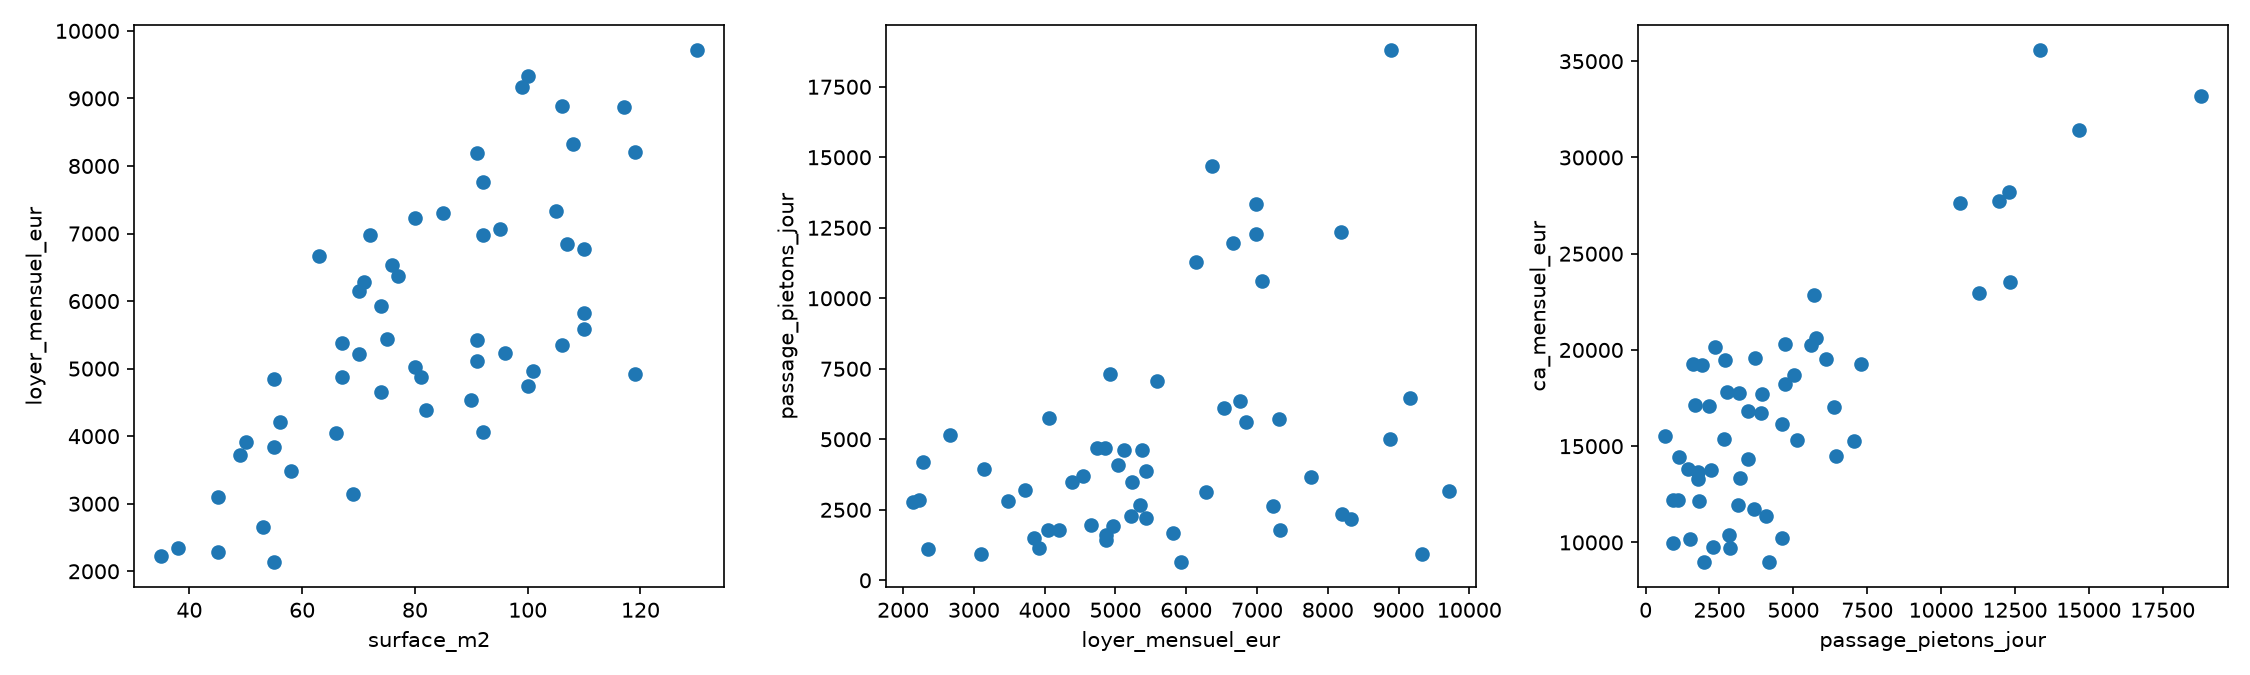
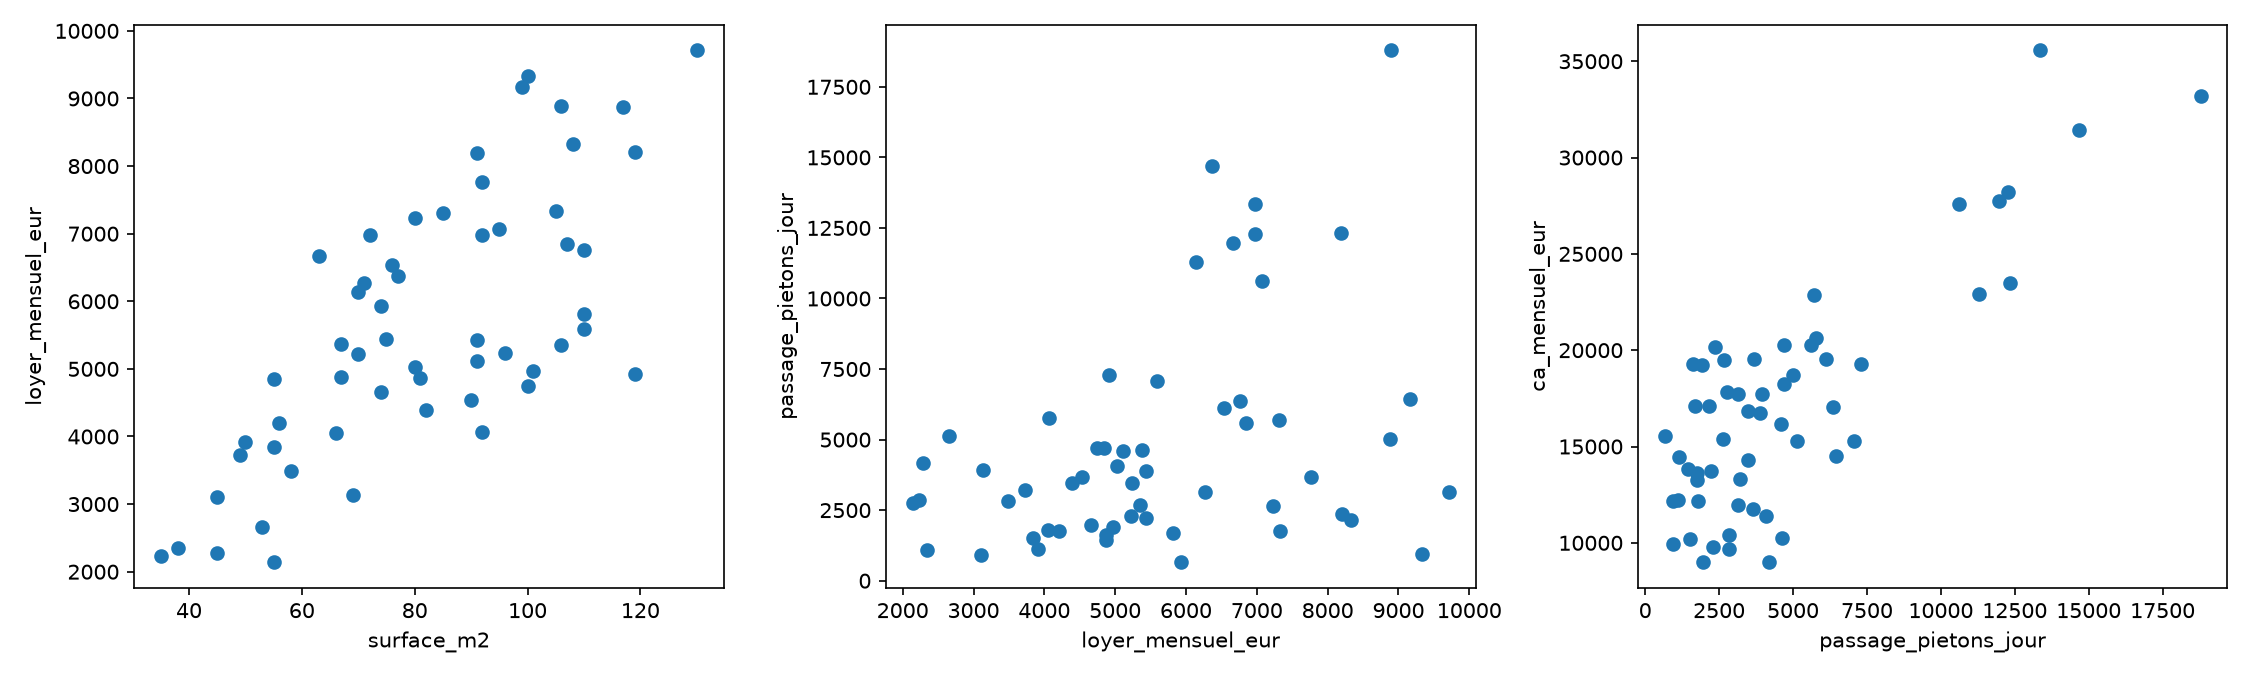
feat: add regression analysis script, indicators, and output figures for Q3-Q4

diff --git a/src/q3_q4_regression.py b/src/q3_q4_regression.py
@@ -1,0 +1,136 @@
+from pathlib import Path
+
+import matplotlib.pyplot as plt
+import numpy as np
+import pandas as pd
+from sklearn.ensemble import RandomForestRegressor
+from sklearn.linear_model import LinearRegression, Ridge
+from sklearn.metrics import (
+    mean_absolute_error,
+    mean_absolute_percentage_error,
+    r2_score,
+    root_mean_squared_error,
+)
+from sklearn.model_selection import KFold, cross_val_predict
+from sklearn.pipeline import Pipeline
+from sklearn.preprocessing import StandardScaler
+
+RACINE = Path(__file__).resolve().parents[1]
+DATA_PATH = RACINE / "data" / "clean" / "boutiques_propres.csv"
+OUTPUT_DIR = RACINE / "outputs"
+FIG_DIR = OUTPUT_DIR / "figures"
+FIG_DIR.mkdir(parents=True, exist_ok=True)
+
+df = pd.read_csv(DATA_PATH)
+
+features = ["surface_m2", "passage_pietons_jour", "concurrents_300m"]
+target = "ca_mensuel_eur"
+
+data = df.dropna(subset=[target] + features).copy()
+X = data[features]
+y = data[target]
+
+print("Boutiques totales :", len(df))
+print("Boutiques utilisables (CA et variables connus) :", len(data))
+
+# Validation croisée 5-fold pour comparer les modèles sans fuite de données
+cv = KFold(n_splits=5, shuffle=True, random_state=42)
+
+modeles = {
+    "Régression linéaire": LinearRegression(),
+    "Ridge (alpha=1.0)": Pipeline([("scaler", StandardScaler()), ("reg", Ridge(alpha=1.0))]),
+    "Random Forest": RandomForestRegressor(n_estimators=100, max_depth=4, random_state=42),
+}
+
+print("\n=== Q4 : COMPARAISON DES MODELES (Validation croisée 5-fold) ===")
+resultats = {}
+for nom, modele in modeles.items():
+    y_pred_cv = cross_val_predict(modele, X, y, cv=cv)
+    r2 = r2_score(y, y_pred_cv)
+    mae = mean_absolute_error(y, y_pred_cv)
+    rmse = root_mean_squared_error(y, y_pred_cv)
+    mape = mean_absolute_percentage_error(y, y_pred_cv) * 100
+    resultats[nom] = {"y_pred_cv": y_pred_cv, "r2": r2, "mae": mae, "rmse": rmse, "mape": mape}
+    print(f"{nom:22s} | R2 = {r2:.3f} | MAE = {mae:,.0f} € | RMSE = {rmse:,.0f} € | MAPE = {mape:.1f} %")
+
+# Modèle retenu : Régression linéaire (meilleur R2/erreur en CV + interprétabilité directe)
+reg = LinearRegression()
+reg.fit(X, y)
+
+# Coefficients standardisés pour comparer l'importance relative des variables
+reg_std = Pipeline([("scaler", StandardScaler()), ("reg", LinearRegression())])
+reg_std.fit(X, y)
+coefs_std = reg_std.named_steps["reg"].coef_
+
+print("\n=== Q4 : EXPLICATION DU MODELE RETENU (Régression linéaire) ===")
+print(f"Ordonnée à l'origine (intercept) : {reg.intercept_:,.2f} €")
+for f, c, cs in zip(features, reg.coef_, coefs_std):
+    print(f"  {f:22s} : {c:+8.2f} € / unité  (coef. standardisé = {cs:+,.0f} €)")
+
+# Prédiction pour le local proposé en Q3
+local_propose = pd.DataFrame([{
+    "surface_m2": 95,
+    "passage_pietons_jour": 4200,
+    "concurrents_300m": 2,
+}])
+ca_estime = reg.predict(local_propose)[0]
+mae_cv = resultats["Régression linéaire"]["mae"]
+rmse_cv = resultats["Régression linéaire"]["rmse"]
+mape_cv = resultats["Régression linéaire"]["mape"]
+r2_cv = resultats["Régression linéaire"]["r2"]
+
+print("\n=== Q3 : ESTIMATION POUR LE LOCAL PROPOSE ===")
+print("Local : 95 m², 4 200 passages/jour, 2 concurrents < 300 m")
+print(f"CA mensuel estimé : {ca_estime:,.0f} €")
+print(f"Fourchette indicative (± MAE) : [{ca_estime - mae_cv:,.0f} € ; {ca_estime + mae_cv:,.0f} €]")
+
+# Graphiques de diagnostic (Q3-Q4)
+y_pred_cv = resultats["Régression linéaire"]["y_pred_cv"]
+residus = y - y_pred_cv
+
+fig, axes = plt.subplots(1, 2, figsize=(13, 5))
+
+# 1. Prédit vs Réel
+axes[0].scatter(y, y_pred_cv, alpha=0.75, edgecolors="k", linewidths=0.5, label="Boutiques (CV 5-fold)")
+lim_min = min(y.min(), y_pred_cv.min()) * 0.9
+lim_max = max(y.max(), y_pred_cv.max()) * 1.05
+axes[0].plot([lim_min, lim_max], [lim_min, lim_max], "r--", label="Prédiction parfaite (y = x)")
+axes[0].axhline(ca_estime, color="green", linestyle=":", linewidth=1.5, label=f"Local Q3 estimé ({ca_estime:,.0f} €)")
+axes[0].set_xlabel("CA mensuel réel (€)")
+axes[0].set_ylabel("CA mensuel prédit (€)")
+axes[0].set_title(f"Q3-Q4 : Réel vs Prédit (R² CV = {r2_cv:.2f}, MAPE = {mape_cv:.1f}%)")
+axes[0].legend()
+axes[0].grid(alpha=0.3)
+
+# 2. Résidus vs Prédit
+axes[1].scatter(y_pred_cv, residus, alpha=0.75, edgecolors="k", linewidths=0.5)
+axes[1].axhline(0, color="red", linestyle="--")
+axes[1].axhline(mae_cv, color="orange", linestyle=":", label=f"± MAE ({mae_cv:,.0f} €)")
+axes[1].axhline(-mae_cv, color="orange", linestyle=":")
+axes[1].set_xlabel("CA mensuel prédit (€)")
+axes[1].set_ylabel("Résidu = Réel - Prédit (€)")
+axes[1].set_title("Diagnostic des résidus (Validation croisée)")
+axes[1].legend()
+axes[1].grid(alpha=0.3)
+
+plt.tight_layout()
+plt.savefig(FIG_DIR / "q3_q4_regression.png", dpi=150)
+plt.close()
+print("\nGraphique enregistré dans", FIG_DIR / "q3_q4_regression.png")
+
+# Sauvegarde des indicateurs texte
+with open(OUTPUT_DIR / "q3_q4_indicateurs.txt", "w", encoding="utf-8") as f:
+    f.write("Q3-Q4 : Régression linéaire (Validation croisée 5-fold)\n")
+    f.write(f"Nombre de boutiques : {len(data)}\n")
+    f.write(f"R2 (CV) : {r2_cv:.3f}\n")
+    f.write(f"MAE (CV) : {mae_cv:.0f} EUR\n")
+    f.write(f"RMSE (CV) : {rmse_cv:.0f} EUR\n")
+    f.write(f"MAPE (CV) : {mape_cv:.1f} %\n\n")
+    f.write("Coefficients (modèle ajusté sur les 56 boutiques) :\n")
+    f.write(f"  Intercept : {reg.intercept_:.2f} EUR\n")
+    for feat, c, cs in zip(features, reg.coef_, coefs_std):
+        f.write(f"  {feat} : {c:+.2f} EUR/unité (std: {cs:+.0f} EUR)\n")
+    f.write(f"\nLocal proposé (95 m2, 4200 passages/j, 2 concurrents) : {ca_estime:.0f} EUR\n")
+    f.write(f"Fourchette (± MAE) : [{ca_estime - mae_cv:.0f} ; {ca_estime + mae_cv:.0f}] EUR\n")
+
+print("Indicateurs enregistrés dans", OUTPUT_DIR / "q3_q4_indicateurs.txt")
